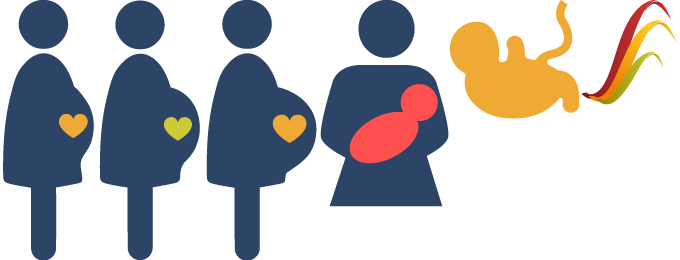
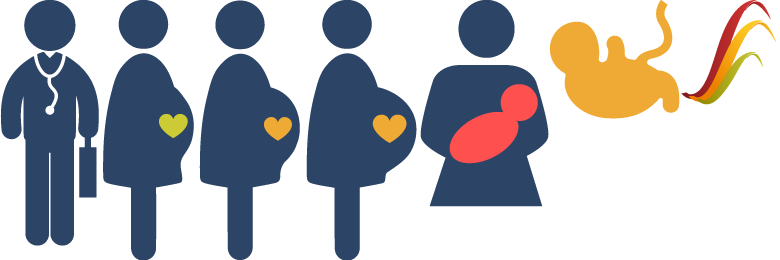
Correccion desbordamiento IE, Mejora de imagenes embarazadas

diff --git a/info_page.html b/info_page.html
@@ -350,7 +350,8 @@
 				        En caso de que tu equipaje de mano exceda los l&iacute;mites de peso y dimensiones, este malet&iacute;n puede ser retirado por funcionarios de la empresa, para ingresarlo en el buz&oacute;n de la aeronave, realizando posiblemente, un cobro adicional.
 				        <br><br>
 				        Las dimensiones m&aacute;ximas de tu Maleta de Mano deben ser:
-				        <i>55 cm x 25 cm x 35 cm</i>
+				        <i>55 cm x 25 cm x 35 cm.</i>
+				        <br><br>
 				        En los m&oacute;dulos ubicados en los aeropuertos, podr&aacute;s verificar si las dimensiones de tu equipaje de mano son correctas.<br><br>
 				        Tu equipaje de mano no debe sobrepasar  los 10 kilos para viajes en las naves 767-300 (Madrid y Miami).<br><br>
 				        Tu equipaje de mano no debe sobrepasar los 7 kilos para viajes en naves 737-300, 737-500 y 737-700 (Vuelos nacionales, Argentina y Brasil).
@@ -364,7 +365,7 @@
 			    		<div class="arrow"></div>
 			    	</div>
 			    	<div class="content">
-			    		<table>
+			    		<table cellspacing="0" cellpadding="0">
 			    			<tr>
 			    				<td class="hidden"></td>
 			    				<th colspan="2">Rutas Nacionales</th>
@@ -403,7 +404,7 @@
 			    	<div class="content">
 			    		En vuelos desde Espa&ntilde;a, tomar las siguientes consideraciones respecto a tu equipaje de mano:
 			    		<br><br>
-			    		<table>
+			    		<table cellspacing="0" cellpadding="0">
 			    			<tr>
 			    				<th>Presentaci&oacute;n</th>
 			    				<th>Caracter&iacute;sticas</th>
@@ -1020,12 +1021,11 @@
 		    					<td>150 &euro;</td>
 		    				</tr>
 		    			</table>
-		    			<br>
 		    			<i>* Estas tarifas se aplican siempre que no se exceda el l&iacute;mite de 23 kilos. En caso de exceso, se aplica un cargo adicional de 35 &euro;</i>
 		    			<br><br>
 		    			<i>** Es muy importante que consideres que el tama&ntilde;o m&aacute;ximo que recibimos para el transporte es de 46 pulgadas.</i>
 		    			<br><br>
-			    		<i>*** Tarifario aplicable a partir del 1ro de Junio de 2015</i>
+			    		<i>*** Tarifario aplicable a partir del <b>1ro de Junio de 2015</b></i>
 			    		<br><br>
 			    	</div>
 			    </div>
@@ -1098,10 +1098,10 @@
 		    					</td>
 		    				</tr>
 		    				<tr>
-		    					<td>Explosivos</td>
-		    					<td>Gases comprimidos</td>
-		    					<td>L&iacute;quidos inflamables</td>
-		    					<td>S&oacute;lidos inflamables</td>
+		    					<th>Explosivos</th>
+		    					<th>Gases comprimidos</th>
+		    					<th>L&iacute;quidos inflamables</th>
+		    					<th>S&oacute;lidos inflamables</th>
 		    				</tr>
 		    				<tr>
 		    					<td>
@@ -1118,10 +1118,10 @@
 		    					</td>
 		    				</tr>
 		    				<tr>
-		    					<td>Venenos y sustancias infecciosas</td>
-		    					<td>Materiales radioactivos</td>
-		    					<td>Materiales corrosivos y oxidantes</td>
-		    					<td>Pilas y bater&iacute;as</td>
+		    					<th>Venenos y sustancias infecciosas</th>
+		    					<th>Materiales radioactivos</th>
+		    					<th>Materiales corrosivos y oxidantes</th>
+		    					<th>Pilas y bater&iacute;as</th>
 		    				</tr>
 			    		</table>
 			    	</div>
@@ -1488,7 +1488,7 @@
 				<table>
 					<tr>
 						<td class="table-title" colspan="4">
-							<div class="clock" style="height:initial;">
+							<div class="clock" style="height:auto;">
 								<table>
 									<tr>
 										<td><div class="icon-clock"></div></td>
@@ -1529,7 +1529,7 @@
 				<table>
 					<tr>
 						<td class="table-title" colspan="4">
-							<div class="clock" style="height:initial;">
+							<div class="clock" style="height:auto;">
 								<table>
 									<tr>
 										<td><div class="icon-clock"></div></td>
@@ -2184,7 +2184,7 @@
 				<div id="subtitle_gestacion_sin_complicaciones" class="desplegable">
 			        <div class="title">
 			        	<div class="img"></div>
-			    		<h4 class="small">Gestaci&oacute;n sin complicaciones m&eacute;dicas</h4>
+			    		<h4 class="small">GESTACI&Oacute;N SIN COMPLICACIONES M&Eacute;DICAS</h4>
 			    		<div class="arrow"></div>
 			    	</div>
 			    	<div class="content">
@@ -2224,17 +2224,40 @@
 			    				<td valign="top">Si tu parto fue hace menos de siete d&iacute;as, Boliviana de Aviaci&oacute;n no podr&aacute; transportarte.</td>
 			    			</tr>
 			    		</table>
-				        <br><br>
+			    	</div>
+			    </div>
+			    <div id="subtitle_gestacion_madrid" class="desplegable">
+			        <div class="title">
+			        	<div class="img"></div>
+			    		<h4 class="small">CONDICIONES DE TRANPORTE DESDE MADRID</h4>
+			    		<div class="arrow"></div>
+			    	</div>
+			    	<div class="content">
+			    		<table class="medium" id="table_gestacion_madrid" cellpadding="0" cellspacing="0">
+			    			<tr>
+			    				<th colspan="2">
+			    					<h1>Variaciones en Condiciones de transporte desde Madrid</h1>
+			    				</th>
+			    			</tr>
+			    			<tr>
+			    				<td>
+			    					<div id="image_gestacion_doctor" class="img-contenido"></div>
+			    				</td>
+			    				<td valign="top">
+			    					Mujeres en gestaci&oacute;n entre las 34 semanas y los 7 d&iacute;as antes del parto, deben viajar <b>acompa&ntilde;adas de un m&eacute;dico</b>.
+			    				</td>
+			    			</tr>
+			    		</table>
 			    	</div>
 			    </div>
 			    <div id="subtitle_gestacion_con_riesgo" class="desplegable">
 			        <div class="title">
 			        	<div class="img"></div>
-			    		<h4 class="small">Gestaci&oacute;n con riesgo</h4>
+			    		<h4 class="small">GESTACI&Oacute;N CON RIESGO</h4>
 			    		<div class="arrow"></div>
 			    	</div>
 			    	<div class="content">
-			    		<table id="table_gestacion_sin_complicaciones_c" cellpadding="0" cellspacing="0">
+			    		<table id="table_gestacion_con_riesgo" cellpadding="0" cellspacing="0">
 			    			<tr>
 			    				<th colspan="2">
 			    					<h1>Gestaci&oacute;n con riesgo</h1>
@@ -2245,7 +2268,7 @@
 			    			</tr>
 			    			<tr>
 			    				<td>
-			    					<div id="image_gestacion_e" class="img-contenido"></div>
+			    					<div id="image_gestacion_feto" class="img-contenido"></div>
 			    				</td>
 			    				<td valign="top">
 			    					Al ser considerado un caso m&eacute;dico, deber&aacute;s presentar obligatoriamente un
@@ -2253,7 +2276,6 @@
 			    				</td>
 			    			</tr>
 			    		</table>
-			    		<div id="image_gestacion_con_riesgo" class="img-contenido"></div>
 			    	</div>
 			    </div>
 			</div>

diff --git a/content/contenidos.css b/content/contenidos.css
@@ -346,22 +346,24 @@
 #info_embarazadas .img-contenido { background-image: url('images/contenidos/images_pasajeros_especiales_embarazadas.png'); }
 
 #subtitle_gestacion_sin_complicaciones	.title .img { background-position: 0 0;}
-#subtitle_gestacion_con_riesgo			.title .img { background-position: 0 -125px;}
+#subtitle_gestacion_madrid				.title .img { background-position: 0 -125px;}
+#subtitle_gestacion_con_riesgo			.title .img { background-position: 0 -250px;}
 
 #subtitle_gestacion_sin_complicaciones.collapsed 	.title .img { background-position: 0 0;}
-#subtitle_gestacion_con_riesgo.collapsed			.title .img { background-position: 0 -40px;}
-
-#image_gestacion_con_riesgo 		{ width: 400px; height: 400px;background-position: 0px -800px; }
+#subtitle_gestacion_madrid.collapsed 				.title .img { background-position: 0 -40px;}
+#subtitle_gestacion_con_riesgo.collapsed			.title .img { background-position: 0 -80px;}
 
 #image_logo_boa{width: 70px;height: 75px;background-position: -428px 0px;margin: 10px 10px 0px;background-size: 500px auto;}
-#image_gestacion_a{width: 97px;height: 250px;background-position: 0 0;}
-#image_gestacion_b{width: 100px;height: 250px;background-position: -100px 0;}
-#image_gestacion_c{width: 120px;height: 250px;background-position: -200px 0;}
-#image_gestacion_d{width: 130px;height: 250px;background-position: -320px 0px;}
-#image_gestacion_e{width: 143px;height: 145px;background-position: -443px 0px;background-color: #1F3656;border-radius: 300px;}
+
+#image_gestacion_doctor{width: 97px;height: 250px;background-position: 0 0;}
+#image_gestacion_a{width: 100px;height: 250px;background-position: -100px 0;}
+#image_gestacion_b{width: 100px;height: 250px;background-position: -200px 0;}
+#image_gestacion_c{width: 120px;height: 250px;background-position: -300px 0px;}
+#image_gestacion_d{width: 130px;height: 250px;background-position: -420px 0px;}
+#image_gestacion_feto{width: 143px;height: 145px;background-position: -543px 0px;background-color: #1F3656;border-radius: 300px;}
 
 #table_gestacion_sin_complicaciones_a h1,
-#table_gestacion_sin_complicaciones_c h1 {
+#table_gestacion_con_riesgo h1 {
 	padding: 0;
 	margin: 0;
 	text-align: left;
@@ -379,7 +381,7 @@
 }
 
 #table_gestacion_sin_complicaciones_b h1,
-#table_gestacion_sin_complicaciones_c h2 {
+#table_gestacion_con_riesgo h2 {
 	color: #EFAA35;
 	font-family: "FuturaMedium";
 	font-size: 32px;
@@ -388,23 +390,23 @@
 }
 
 #table_gestacion_sin_complicaciones_b td,
-#table_gestacion_sin_complicaciones_c td {
+#table_gestacion_con_riesgo td {
 	font-size: 16px;
 	text-align: right;
 }
 
-#table_gestacion_sin_complicaciones_c strong {
+#table_gestacion_con_riesgo strong {
 	font-size: 17px;
 }
 
-#table_gestacion_sin_complicaciones_c th{
+#table_gestacion_con_riesgo th{
 	background-color: #1F3656;
 	color: #EFAA35;
 	text-align: left;
 	padding: 0 0 10px 10px;
 }
 
-#table_gestacion_sin_complicaciones_c h1 {
+#table_gestacion_con_riesgo h1 {
 	padding: 15px;
 	margin: 0px;
 	text-align: center;
@@ -412,6 +414,8 @@
 	font-family: "FuturaLight";
 	font-weight: 100;
 }
+
+#table_gestacion_madrid h1{margin: 0;padding: 0;}
 /* -------------------------------------------- */
 /* ------------= MENU ESPECIAL =--------------- */
 /* -------------------------------------------- */
@@ -460,8 +464,18 @@
 /* -------------------------------------------- */
 /* ------------= NUESTRA FLOTA =--------------- */
 /* -------------------------------------------- */
-/*#ui_nuestra_flota .info .desplegable .title .img { background-image: url('images/contenidos/icons_nuestra_flota.png'); }*/
+#ui_nuestra_flota .info .desplegable .title .img { background-image: url('images/contenidos/icons_nuestra_flota.png'); }
 #ui_nuestra_flota .info .img-contenido {background-image: url("images/contenidos/images_nuestra_flota.png");}
+
+#subtitle_737_300			.title .img { background-position: 0 0;}
+#subtitle_737_500			.title .img { background-position: 0 -125px;}
+#subtitle_737_700_ng		.title .img { background-position: 0 -375px;}
+#subtitle_767_300			.title .img { background-position: 0 -500px;}
+
+#subtitle_737_300.collapsed			.title .img { background-position: 0 0;}
+#subtitle_737_500.collapsed			.title .img { background-position: 0 -40px;}
+#subtitle_737_700_ng.collapsed		.title .img { background-position: 0 -120px;}
+#subtitle_767_300.collapsed			.title .img { background-position: 0 -160px;}
 
 #image_737_300_foto{position: relative;left: -50px;width: 800px;height: 300px;background-position:0 0;}
 #image_737_300_plano{width: 600px;height: 400px;background-position: 0px -400px;}

diff --git a/content/style.css b/content/style.css
@@ -1530,14 +1530,14 @@ header .att-div{
 .ui-section .descripcion table th {
 	color: #FFF;
 	font-family: "FuturaLight";
-	font-size: 16px;
+	font-size: 18px;
 	font-weight: 100;
 	padding: 10px;
 	text-align: center;
 	background-color: #1F3656;
 	border-style: solid;
 	border-color: #FFF;
-	border-width: 0 1px;
+	border-width: 1px 0 1px 1px;
 }
 .ui-section .descripcion table th.small-title {font-size:11px;}
 
@@ -1609,11 +1609,11 @@ header .att-div{
 }
 
 .ui-section .descripcion .cross {
-	width: 30px;
-	height: 30px;
+	width: 25px;
+	height: 25px;
 	background-image: url('images/cross.png');
 	background-repeat: no-repeat;
-	background-size: 30px auto;
+	background-size: 25px auto;
 	background-position: center;
 	margin: 0 1px;
 	display: inline-block;
